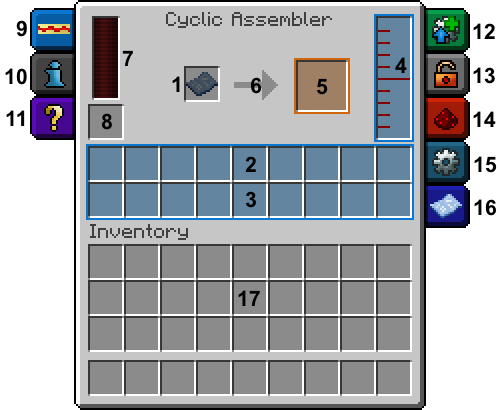
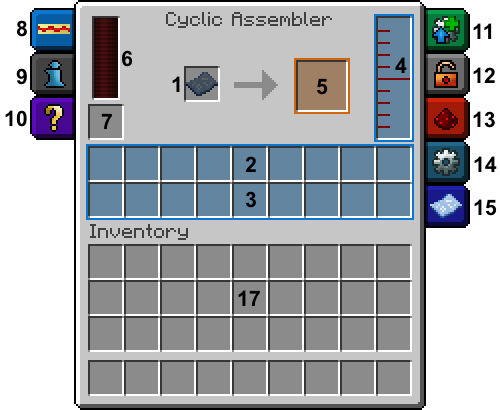
Thermal Expansion: Added Cyclic Assembler page

diff --git a/docs/thermal-expansion/machines/cyclic-assembler/index.html b/docs/thermal-expansion/machines/cyclic-assembler/index.html
@@ -1,0 +1,111 @@
+---
+title: Cyclic Assembler
+---
+
+<img src="/assets/images/thermal-expansion/cyclic-assembler.png" title="Cyclic Assembler" />
+
+<blockquote>No, it won't craft that.</blockquote>
+
+<p>The <strong>Cyclic Assembler</strong> is one of the Machines added by Thermal Expansion. It uses <a href="/docs/redstone-flux">Redstone Flux</a> to craft items, using crafting recipes stored on <a href="/docs/thermal-expansion/storage/schematic">Schematics</a>.</p>
+
+<h2 id="crafting">Crafting</h2>
+<img src="/assets/images/recipes/cyclic-assembler.png" class="uk-margin-small-bottom" title="Cyclic Assembler recipe" /><br />
+<small>Shaped Crafting</small>
+<ul class="uk-text-small uk-margin-remove">
+    <li><a href="/docs/thermal-expansion/materials/machine-frames">Machine Frame</a> (any tier)</li>
+    <li><a href="/docs/thermal-expansion/materials/redstone-reception-coil">Redstone Reception Coil</a></li>
+    <li>2x <a href="/docs/thermal-foundation/base-metals/copper">Copper</a> <a href="/docs/thermal-foundation/materials/gears">Gear</a></li>
+    <li>2x <a href="/docs/thermal-foundation/base-metals/tin">Tin</a> <a href="/docs/thermal-foundation/materials/gears">Gear</a></li>
+    <li>Chest</li>
+</ul>
+
+<h2 id="operation">Operation</h2>
+<p>In order for the Cyclic Assembler to craft items, it must be given a written <a href="/docs/thermal-expansion/storage/schematic">Schematic</a> to tell it what crafting recipe to use. This is done by placing one in the Schematic slot in the Machine's <a href="#gui">GUI</a>.</p>
+
+<p>Once given a Schematic, the Cyclic Assembler will try to perform the recipe whenever enough crafting ingredients are stored in its input slots, using 20 RF per craft. The Machine can perform a recipe once per tick, meaning that the Machine consumes 20 RF per tick when working constantly (as indicated by the Energy Tab in the GUI).</p>
+
+<p>If a recipe produces leftover items upon crafting, like the three empty Buckets when crafting Cake, these items are placed back into the Machine's input slots.</p>
+
+<p>Other than input slots for items, the Machine has an input tank for fluids. Fluids in this tank can be used by the Assembler to replace filled fluid container-type ingredients like Buckets when crafting. This way, leftover items like empty Buckets are not an issue.</p>
+
+<p>For example, <a href="/docs/thermal-foundation/alloys/enderium/#crafting">Enderium Blends</a> can be produced by placing <a href="/docs/thermal-foundation/materials/pulverized-materials">Pulverized</a> <a href="/docs/thermal-foundation/base-metals/tin">Tin</a>, <a href="/docs/thermal-foundation/base-metals/silver">Silver</a> and <a href="/docs/thermal-foundation/base-metals/shiny-metal">Shiny Metal</a> in the Machine's input slots, and pumping buckets worth of <a href="/docs/thermal-foundation/fluids/resonant-ender">Resonant Ender</a> into the Assembler instead of putting Resonant Ender Buckets in its input slots.</p>
+
+<h2 id="gui">GUI</h2>
+<img src="/assets/images/thermal-expansion/cyclic-assembler-gui.png" title="Cyclic Assembler GUI" />
+
+<dl class="uk-description-list-line">
+    <dt>1. Schematic Slot</dt>
+    <dd><a href="/docs/thermal-expansion/storage/schematic">Schematics</a> in this slot determine the crafting recipe the Assembler uses to craft items.</dd>
+    
+    <dt>2. Upper Input Slots</dt>
+    <dd>Items placed in these slots are used as crafting ingredients by the Assembler. The Assembler can be configured so that items that enter a certain side of the Machine can only end up in these upper slots, and not in the lower ones.</dd>
+    
+    <dt>3. Lower Input Slots</dt>
+    <dd>Items placed in these slots are used as crafting ingredients by the Assembler. The Assembler can be configured so that items that enter a certain side of the Machine can only end up in these lower slots, and not in the upper ones.</dd>
+    
+    <dt>4. Input Tank</dt>
+    <dd>Fluids in this tank can be used by the Assembler to replace filled fluid container-type ingredients like Buckets when crafting.</dd>
+    
+    <dt>5. Output Slot</dt>
+    <dd>Crafted items end up in this slot.</dd>
+
+    <dt>6. Energy Gauge</dt>
+    <dd>Displays how much Redstone Flux is currently stored in the Assembler.</dd>
+
+    <dt>7. Charging Slot</dt>
+    <dd>Items that store Redstone Flux that are placed here are discharged by the Assembler to charge itself.</dd>
+    
+    <dt>8. Energy Tab</dt>
+    <dd>Displays how much power the Assembler uses, and how much Redstone Flux is currently stored in it.</dd>
+    
+    <dt>9. Information Tab</dt>
+    <dd>Displays a bit of information about the Assembler.</dd>
+
+    <dt>10. Tutorial Tab</dt>
+    <dd>Explains various things about the Assembler and the other tabs in the GUI.</dd>
+
+    <dt>11. Augmentation Tab</dt>
+    <dd><a href="/docs/thermal-expansion/augments/augments">Augments</a> can be placed in the slots in this tab.</dd>
+
+    <dt>12. Security Tab</dt>
+    <dd>Allows setting who is allowed to access the Assembler. Only available if a <a href="/docs/thermal-expansion/materials/signalum-security-lock">Signalum Security Lock</a> is installed.</dd>
+
+    <dt>13. Redstone Control Tab</dt>
+    <dd>Allows setting how the Assembler responds to Redstone signals. Only available if the <a href="/docs/thermal-expansion/augments/augments">Integrated Redstone Circuit</a> Augment is installed.</dd>
+
+    <dt>14. Configuration Tab</dt>
+    <dd>Allows configuring the <a href="#input-output">input/output</a> behavior of the sides of the Assembler. Only available if the <a href="/docs/thermal-expansion/augments/augments">Integrated Modular Framework</a> Augment is installed.</dd>
+    
+    <dt>15. Schematic Tab</dt>
+    <dd>Allows writing or editing <a href="/docs/thermal-expansion/storage/schematic">Schematics</a> that are in the Schematic slot.</dd>
+    
+    <dt>16. Player Inventory</dt>
+    <dd>The inventory and hotbar of the player that is accessing the Assembler.</dd>
+</dl>
+
+<h2 id="input-output">Input/Output</h2>
+<p>The different sides of the Cyclic Assembler correspond to different color-coded slots and tanks in its GUI. These sides can be identified by color-coded holes on the sides of the Assembler. This is used for handling input and output with ducts/pipes/conduits/tubes, other Machines and other types of inventories and/or tanks.</p>
+
+<p>If the <a href="/docs/thermal-expansion/augments/augments">Integrated Modular Framework</a> Augment is installed, this feature of the Assembler can be configured. Some things can be inserted from any side.</p>
+
+<p>If the <a href="/docs/thermal-expansion/augments/augments">Integrated Servo Mechanism</a> Augment is installed, output items are automatically ejected from the corresponding sides of the Assembler, evenly divided between the available outputs.</p>
+
+<p>If the <a href="/docs/thermal-expansion/augments/augments">Integrated Hopper Apparatus</a> Augment is installed, input items are automatically pulled into the Assembler from adjacent inventories at the corresponding sides.</p>
+
+<div class="uk-overflow-container">
+    <table class="uk-table uk-table-condensed uk-table-striped cofh-table-compress">
+        <thead>
+            <tr><th>Type</th> <th>Color</th> <th>Default Sides</th></tr>
+        </thead>
+
+        <tbody>
+            <tr><td>Item/fluid input</td> <td>Blue</td> <td>Top, Bottom</td></tr>
+            <tr><td>Item input (upper input slots)</td> <td>Green</td> <td>(not set)</td></tr>
+            <tr><td>Item input (lower input slots)</td> <td>Purple</td> <td>(not set)</td></tr>
+            <tr><td>Item output</td> <td>Orange</td> <td>Left, Right, Back</td></tr>
+            <tr><td>Any item input/output*</td> <td>(colorless)</td> <td>(not set)</td></tr>
+            <tr><td>Redstone Flux input</td> <td>-</td> <td>(any side)</td></tr>
+        </tbody>
+    </table>
+</div>
+<small>*: Cannot be automatically ejected from.</small>
